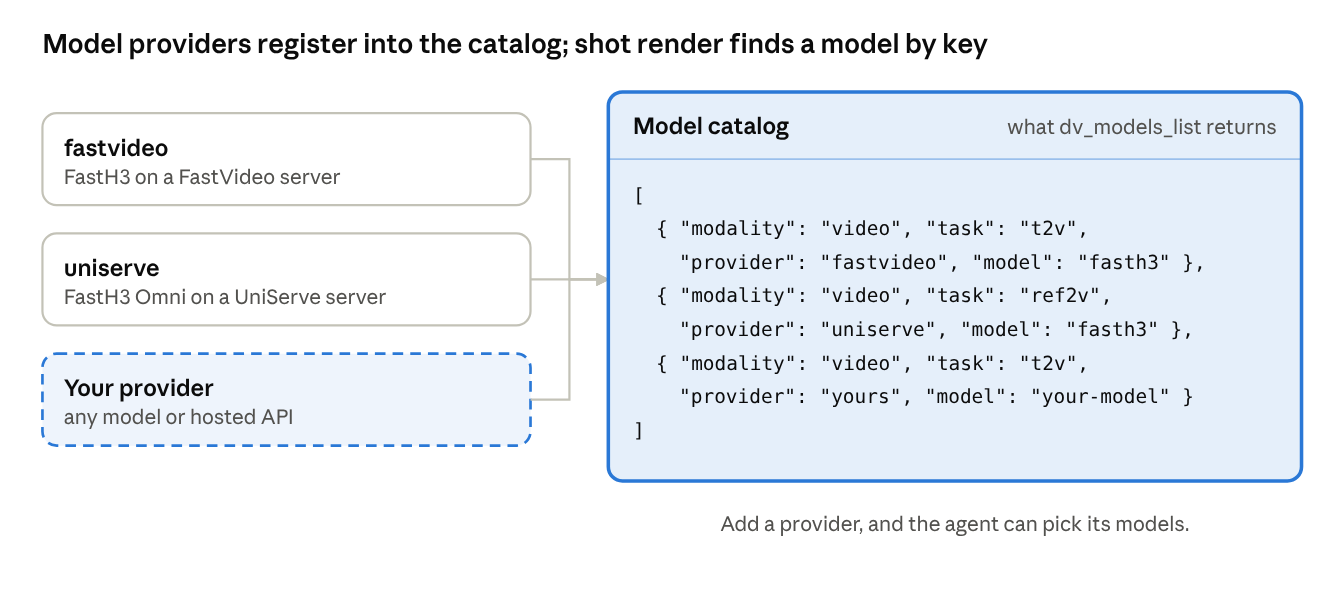
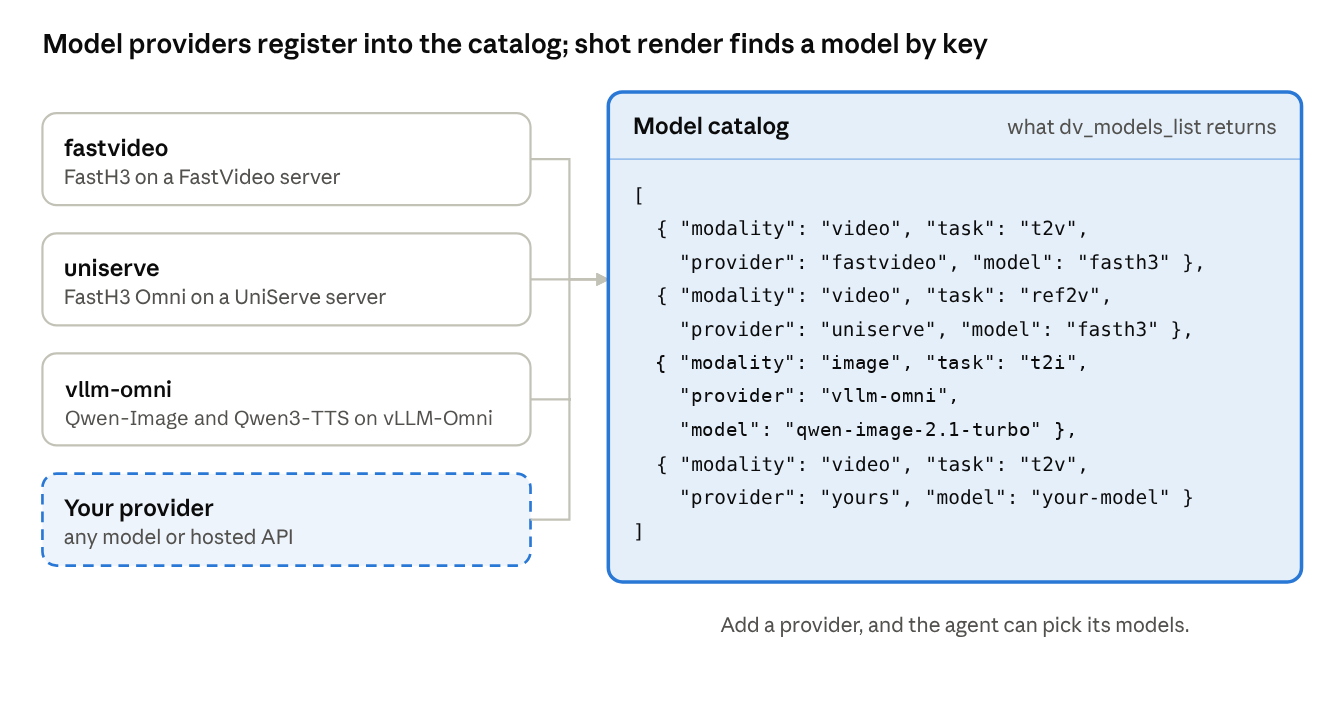
[blog]: Link Kun Lin, drop the DGX Spark TODO, add vllm-omni to two figures

diff --git a/content/blogs/dreamverse-harness/index.md b/content/blogs/dreamverse-harness/index.md
@@ -271,8 +271,6 @@ npx skills add fastvideo-project/dreamverse-harness --skill dreamverse-dgx-spark
 
 The agent inspects each box, chooses a model layout for the hardware you have, installs FastVideo, the LLM and Dreamverse Harness, and checks every box with a test render. Prefer to do it yourself? The DGX Spark guide in the repository has every step, with a check after each one. The recipes below are the setups we run; mix and extend them freely.
 
-<strong style="color: #d32f2f;">[TODO: review this DGX Spark text, a short version of the DGX Spark guide]</strong>
-
 One DGX Spark, fully local. Qwen 3.8 27B (about 39 GB under vLLM) and FastH3 Trim (about 45 GB while rendering) share one box:
 
 1. Prepare the box: DGX OS with CUDA 13, at least 120 GB of free disk, a Hugging Face login, and a memory watchdog, because an out-of-memory condition can freeze a GB10.
@@ -368,6 +366,6 @@ We thank NVIDIA for their compute support and collaboration.
 
 ## **FastVideo Team**
 
-**Contributors:** [Junda Su](https://davids048.github.io/), [Aryan Kumar](https://github.com/aryan5v), Kun Lin, [Kyle Hu](https://github.com/KyleNeverGivesUp), [Kevin Lin](https://github.com/kevin314), [Loay Rashid](https://github.com/loaydatrain), [Junda Chen](https://github.com/GindaChen)  
+**Contributors:** [Junda Su](https://davids048.github.io/), [Aryan Kumar](https://github.com/aryan5v), [Kun Lin](https://github.com/klhhhhh), [Kyle Hu](https://github.com/KyleNeverGivesUp), [Kevin Lin](https://github.com/kevin314), [Loay Rashid](https://github.com/loaydatrain), [Junda Chen](https://github.com/GindaChen)  
 **Tech lead:** [Will Lin](https://solitarythinker.github.io/)  
 **Advisor:** [Hao Zhang](https://haozhang.ai/) (corresponding)
